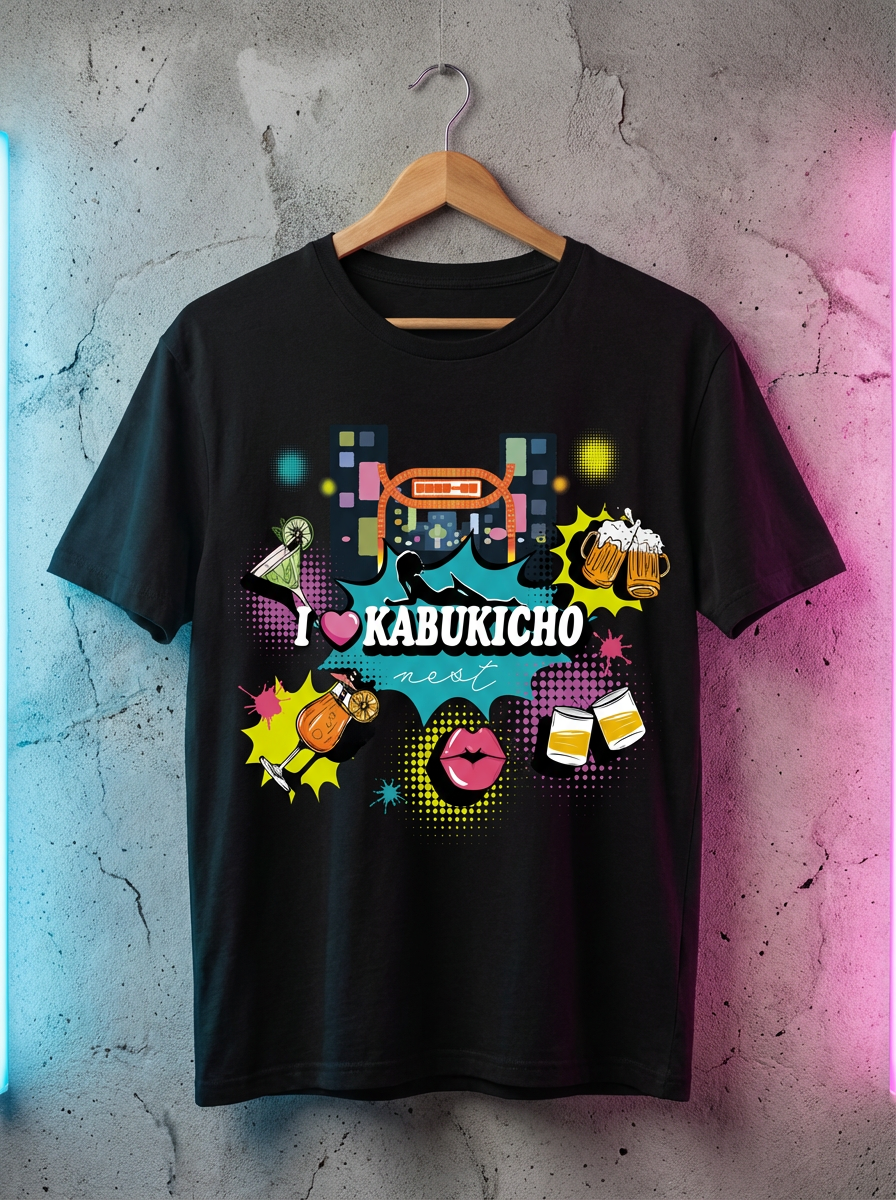
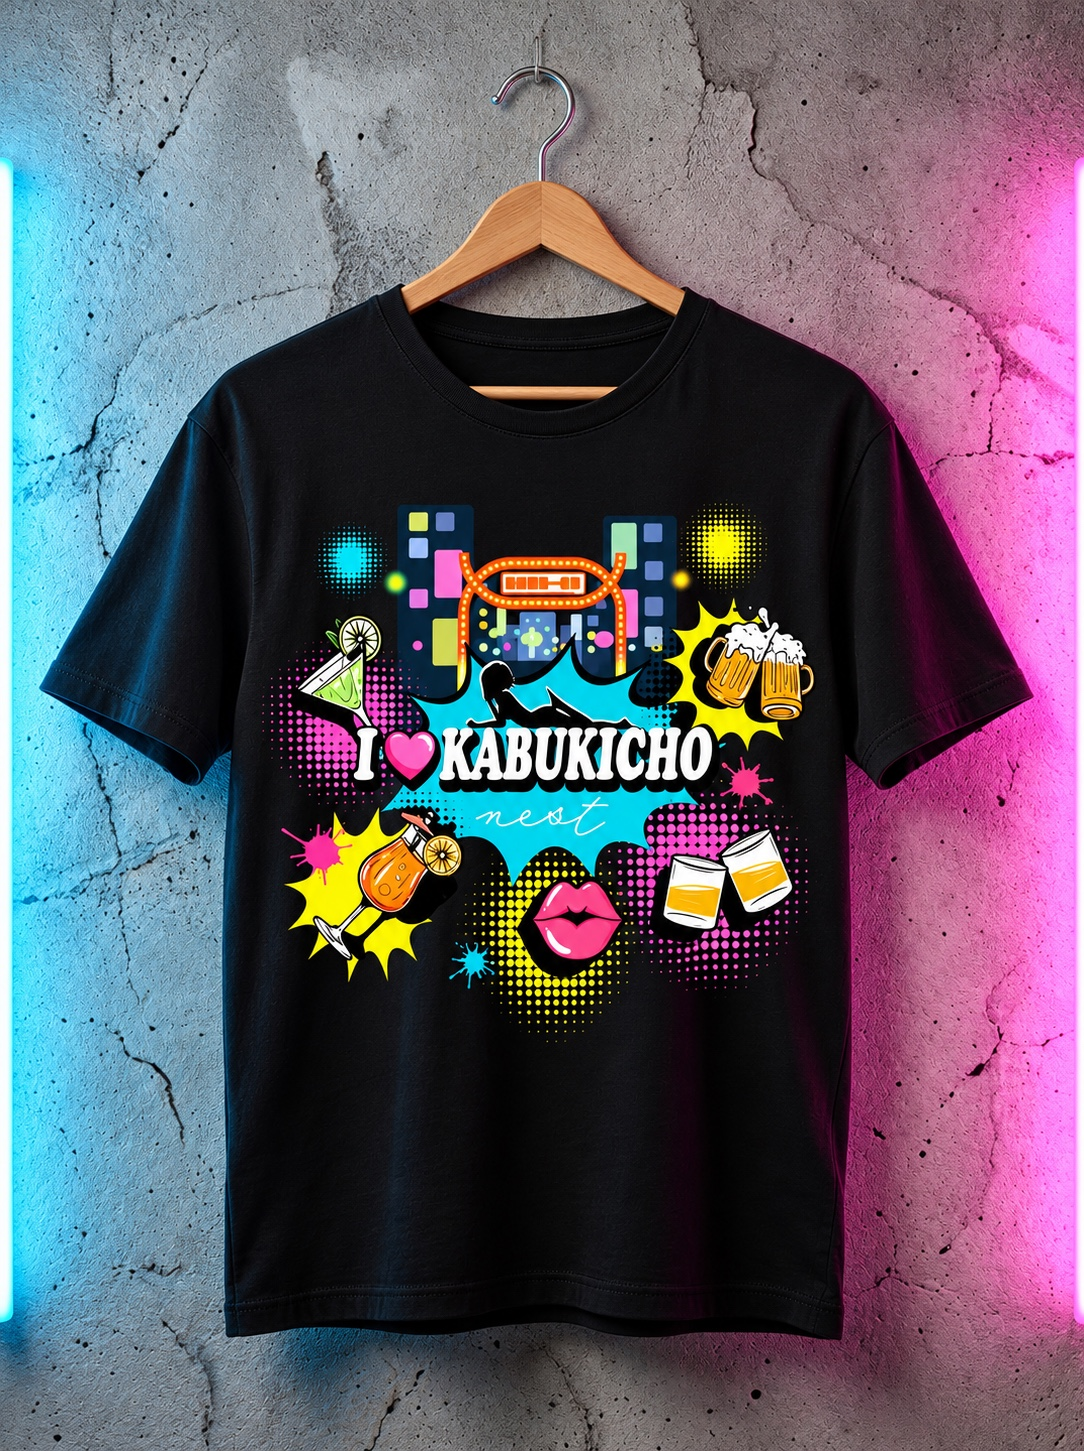
DESIGNの画像4点とくれあのロゴ説明を更新
添付のワイン、SELENE使用イメージ、KABUKICHOのTシャツとグラフィックを差し替え。拡大用PNGは元画像の画素を保持、JPEGは原本を使用し、掲載用WebPを更新。くれあの説明文は指定の114文字に変更。HTML差分5行のみ、既存レイアウト・他作品・直前のJ-PROOF更新を保持。

diff --git a/design.html b/design.html
@@ -145,7 +145,7 @@ body#top.design-page .design-ring-gallery .lapis-ring-image { width:65%;margin-i
 <section class="design-project" id="branding" tabindex="-1" aria-labelledby="branding-title">
 <div class="design-project-line" aria-hidden="true"></div>
 <div class="design-project-heading" data-design-reveal><p class="design-index"><span>01</span> / WINE LABEL DESIGN</p><h2 id="branding-title">WINE LABEL DESIGN</h2><p class="design-subtitle" lang="ja">ワインラベルデザイン</p></div>
-<div class="design-visuals " data-gallery-group><a class="gallery-item" href="./DESIGN%20%2815%29.png" aria-label="ワインラベルデザイン — 白ワインと赤ワインを拡大"><img src="./xen-preview-91cbd7e935cb37bd.webp" alt="ワインラベルデザイン — 白ワインと赤ワイン" width="1600" height="900" loading="lazy" decoding="async"></a></div>
+<div class="design-visuals " data-gallery-group><a class="gallery-item" href="./DESIGN%20%2815%29.png?v=20261029-design-refresh" aria-label="ワインラベルデザイン — 白ワインと赤ワインを拡大"><img src="./xen-preview-91cbd7e935cb37bd.webp?v=20261029-design-refresh" alt="ワインラベルデザイン — 白ワインと赤ワイン" width="1536" height="864" loading="lazy" decoding="async"></a></div>
 <div class="design-description xen-prose-container" data-design-reveal><p class="xen-description">北海道・八剣山の特徴的なシルエットをグラスの中に描き、産地が直感的に伝わるラベルデザインとしました。白ワインには爽やかな男性、赤ワインには大人の女性を配し、ネクタイ・リップ・ネイルをアクセント<span class="xen-tail">カラーに設定。</span></p><p class="xen-description">赤白を並べると二人が同じワインを楽しむ情景が浮かぶよう構成しています。ワインを手に取るきっかけになる視覚的ストーリー性を意識したラベルデザインです。</p></div>
 <a class="contents-return" href="#design-contents">↑ 目次へ戻る</a></section>
 <section class="design-project" id="selene-pet-clinic" tabindex="-1" aria-labelledby="selene-pet-clinic-title">
@@ -153,7 +153,7 @@ body#top.design-page .design-ring-gallery .lapis-ring-image { width:65%;margin-i
 <div class="design-project-heading" data-design-reveal><p class="design-index"><span>02</span> / BRAND IDENTITY</p><h2 id="selene-pet-clinic-title">SELENE PET CLINIC</h2><p class="design-subtitle" lang="ja">ペットクリニックのロゴデザイン</p></div>
 <div class="design-visuals design-clinic" data-gallery-group><a class="gallery-item design-wide" href="./DESIGN%20%288%29.jpg" aria-label="SELENE PET CLINIC — 外観を拡大"><img src="./xen-preview-ec00ddaec0397faa.webp" alt="SELENE PET CLINIC — 外観" width="1600" height="900" loading="lazy" decoding="async"></a>
 <a class="gallery-item design-wide" href="./DESIGN%20%287%29.jpg" aria-label="SELENE PET CLINIC — 薬袋・診察券を拡大"><img src="./xen-preview-cdd0d89661578102.webp" alt="SELENE PET CLINIC — 薬袋・診察券" width="1600" height="746" loading="lazy" decoding="async"></a>
-<a class="gallery-item" href="./DESIGN%20%2814%29.PNG" aria-label="SELENE PET CLINIC — 薬袋と診察券の使用イメージを拡大"><img src="./xen-preview-366d8f23e4a9ddaa.webp" alt="SELENE PET CLINIC — 薬袋と診察券の使用イメージ" width="1376" height="768" loading="lazy" decoding="async"></a>
+<a class="gallery-item" href="./DESIGN%20%2814%29.PNG?v=20261029-design-refresh" aria-label="SELENE PET CLINIC — 薬袋と診察券の使用イメージを拡大"><img src="./xen-preview-366d8f23e4a9ddaa.webp?v=20261029-design-refresh" alt="SELENE PET CLINIC — 薬袋と診察券の使用イメージ" width="1536" height="858" loading="lazy" decoding="async"></a>
 </div>
 <div class="design-description xen-prose-container" data-design-reveal><p class="xen-description">動物たちが安心できるクリニックを目指し、親しみやすく清潔感のあるビジュアルアイデンティティを<span class="xen-tail">構築しました。</span></p><p class="xen-description">ロゴは「動物たちを見守る月」をモチーフに、診察券・薬袋・外観サインまで一貫したカラーとシルエットで統一。来院する飼い主とペットが、安心して利用できる温かいブランド体験をデザインしました。</p></div>
 <a class="contents-return" href="#design-contents">↑ 目次へ戻る</a></section>
@@ -218,7 +218,7 @@ body#top.design-page .design-ring-gallery .lapis-ring-image { width:65%;margin-i
 <div class="design-project-heading" data-design-reveal><p class="design-index"><span>04 / B</span> / BAKERY BRANDING</p><h2 id="bakery-title">BAKERY BRANDING</h2><p class="design-subtitle" lang="ja">ベーカリーのブランディング</p></div>
 <div class="design-visuals " data-gallery-group><a class="gallery-item" href="./DESIGN%20%2810%29.jpg?v=20261029-branding-images" aria-label="パン売りの少女くれあ — オープニングポスターを拡大"><img src="./xen-preview-77a3b2e483766f25.webp?v=20261029-branding-images" alt="パン売りの少女くれあ — オープニングポスター" width="1050" height="1498" loading="lazy" decoding="async"></a></div>
 
-<div class="design-description xen-prose-container" data-design-reveal><p class="xen-description">木目の素材感とクラシカルな装飾、赤いリボンを組み合わせたベーカリーのブランディング。看板の質感とシンボルを通して、温かみのある世界観を表現しています。</p></div>
+<div class="design-description xen-prose-container" data-design-reveal><p class="xen-description">メイドのシルエットを中心に、繊細な花々とリボンを組み合わせたエンブレムロゴ。クラシカルな装飾と優雅な曲線を取り入れ、少女らしい可憐さと上品さを両立。物語の世界から生まれたような、幻想的で華やかなブランドイメージを表現しています。</p></div>
 <a class="contents-return" href="#design-contents">↑ 目次へ戻る</a></section>
 <section class="design-project" id="sake-land" tabindex="-1" aria-labelledby="sake-land-title">
 <div class="design-project-line" aria-hidden="true"></div>
@@ -234,8 +234,8 @@ body#top.design-page .design-ring-gallery .lapis-ring-image { width:65%;margin-i
 <section class="design-project" id="apparel-graphics" tabindex="-1" aria-labelledby="apparel-graphics-title">
 <div class="design-project-line" aria-hidden="true"></div>
 <div class="design-project-heading" data-design-reveal><p class="design-index"><span>06</span> / APPAREL GRAPHICS</p><h2 id="apparel-graphics-title">KABUKICHO</h2><p class="design-subtitle" lang="ja">アパレルグラフィックデザイン</p></div>
-<div class="design-visuals design-kabukicho" data-gallery-group><a class="gallery-item design-garment" href="./DESIGN%20%2811%29.PNG" aria-label="KABUKICHO — Tシャツデザインを拡大"><img src="./xen-preview-830787f26ef4fe7e.webp" alt="KABUKICHO — Tシャツデザイン" width="896" height="1200" loading="lazy" decoding="async"></a>
-<a class="gallery-item" href="./DESIGN%20%289%29.jpg" aria-label="KABUKICHO — グラフィックビジュアルを拡大"><img src="./xen-preview-1b8ea771b8ed4a93.webp" alt="KABUKICHO — グラフィックビジュアル" width="1600" height="900" loading="lazy" decoding="async"></a></div>
+<div class="design-visuals design-kabukicho" data-gallery-group><a class="gallery-item design-garment" href="./DESIGN%20%2811%29.PNG?v=20261029-design-refresh" aria-label="KABUKICHO — Tシャツデザインを拡大"><img src="./xen-preview-830787f26ef4fe7e.webp?v=20261029-design-refresh" alt="KABUKICHO — Tシャツデザイン" width="1084" height="1451" loading="lazy" decoding="async"></a>
+<a class="gallery-item" href="./DESIGN%20%289%29.jpg?v=20261029-design-refresh" aria-label="KABUKICHO — グラフィックビジュアルを拡大"><img src="./xen-preview-1b8ea771b8ed4a93.webp?v=20261029-design-refresh" alt="KABUKICHO — グラフィックビジュアル" width="1536" height="864" loading="lazy" decoding="async"></a></div>
 
 <div class="design-description xen-prose-container" data-design-reveal><p class="xen-description">歌舞伎町のネオンやナイトカルチャーをモチーフにしたグラフィックデザイン。鮮やかな色彩とポップなイラストを組み合わせ、都市のエネルギーを表現しています。</p></div>
 <a class="contents-return" href="#design-contents">↑ 目次へ戻る</a></section>
